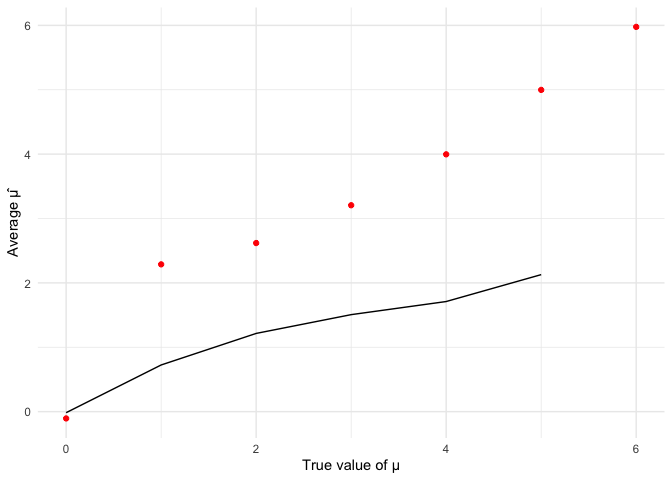
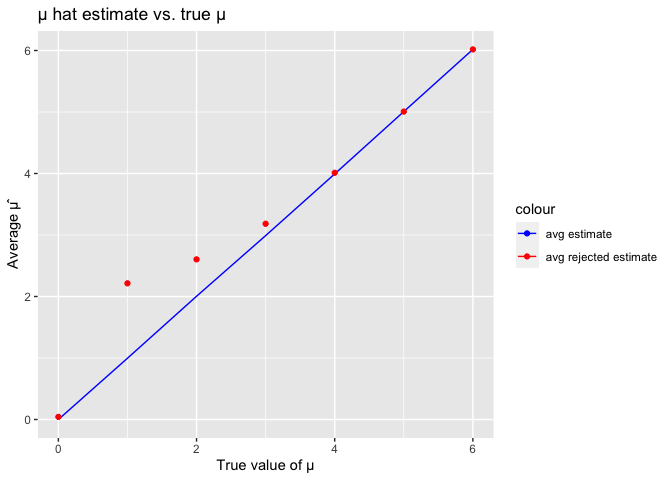
updated plots for q3

diff --git a/p8105_hw5_sw3879.md b/p8105_hw5_sw3879.md
@@ -164,6 +164,7 @@ q2_tidy |> ggplot(aes(x = week, y = value, color = arm)) +
 Set up experiment
 
 ``` r
+set.seed(1)
 n = 30
 sigma = 5
 mu_values = 0:6
@@ -199,9 +200,10 @@ for (mu in mu_values) {
     if (test_result$p_value < 0.05) {
       rejected_count = rejected_count + 1
       rejected_estimates = c(rejected_estimates, test_result$estimate)
-    } else {
-      estimates = c(estimates, test_result$estimate)
-    }
+    } 
+    
+    estimates = c(estimates, test_result$estimate)
+    
   }
   
   power = rejected_count / reps
@@ -214,11 +216,7 @@ for (mu in mu_values) {
     avg_estimate_rejected = NA
   }
   
-  if (length(estimates) > 0) {
-    avg_estimate = mean(estimates)
-  } else {
-    avg_estimate = NA
-  }
+  avg_estimate = mean(estimates)
   
   estimate_results = rbind(estimate_results, data.frame(mu = mu, avg_estimate = avg_estimate, avg_estimate_rejected = avg_estimate_rejected))
 }
@@ -226,22 +224,22 @@ for (mu in mu_values) {
 
 ``` r
 ggplot(power_results, aes(x = mu, y = power)) +
-  geom_line() +
-  labs(x = "True value of μ", y = "Power") +
-  geom_hline(yintercept = 0.8, linetype = "dashed", color = "red") +
-  theme_minimal()
+  geom_point() + geom_line() +
+  labs(title = "proportion of null rejected vs. true μ",
+    x = "True value of μ", y = "Power")
 ```
 
 ![](p8105_hw5_sw3879_files/figure-gfm/unnamed-chunk-13-1.png)<!-- -->
 
 ``` r
 ggplot(estimate_results, aes(x = mu, y = avg_estimate)) +
-  geom_line() +
-  labs(x = "True value of μ", y = "Average μ̂") +
-  geom_point(data = estimate_results[!is.na(estimate_results$avg_estimate_rejected), ], aes(y = avg_estimate_rejected), color = "red") +
-  theme_minimal()
+  geom_line(aes(color = "avg estimate"), show.legend = TRUE) +
+  labs(title = "μ hat estimate vs. true μ",
+       x = "True value of μ", 
+       y = "Average μ̂") +
+ geom_point(data = estimate_results, aes(y = avg_estimate_rejected, 
+            color = "avg rejected estimate"), show.legend = TRUE) +
+  scale_color_manual(values = c("avg estimate" = "blue", "avg rejected estimate" = "red"), labels = c("avg estimate", "avg rejected estimate")) 
 ```
-
-    ## Warning: Removed 1 row containing missing values (`geom_line()`).
 
 ![](p8105_hw5_sw3879_files/figure-gfm/unnamed-chunk-14-1.png)<!-- -->
